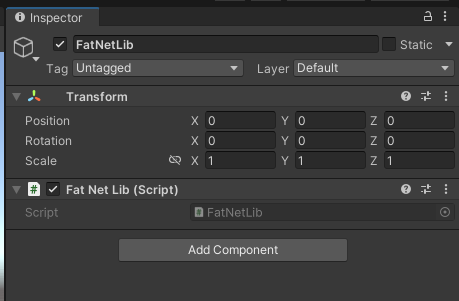
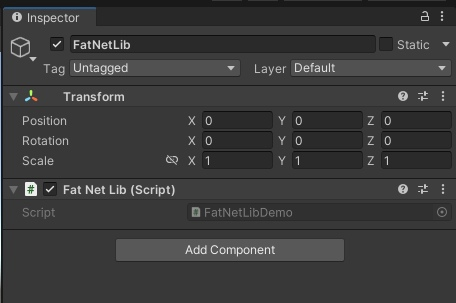
#121 Fix comments

diff --git a/README.md b/README.md
@@ -1,4 +1,4 @@
-# FatNetLib
+# FatNetLib - Beta
 
 [![Nuget](https://img.shields.io/badge/nuget-0.1.0-blue)](https://www.nuget.org/packages/FatNetLib/)
 [![GitHub Releases](https://img.shields.io/badge/github_releases-0.1.0-blue)](https://github.com/VasiliyKolihalov/FatNetLib/releases/)
@@ -9,24 +9,20 @@ areas.
 FatNetLib has familiar features and concepts from large enterprise frameworks (ASP.NET core, Spring etc.).
 FatNetLib uses the [LiteNetLib](https://github.com/RevenantX/LiteNetLib#litenetlib) for transport.
 
-## Features and documentation
-
-FatNetLib contains [Essential documentation](docs/2-essentials) with a guide for all features.
-
-List of the main features available out of the box:
-
-* Endpoints
-* Different types of delivery reliability (from [LiteNetLib](https://github.com/RevenantX/LiteNetLib))
-* Middlewares
-* Json serialization
-* Encryption
-* Compression
-* Asynchronous API
-* Deep customization
-
 **Attention, this is a beta version.
 The basic functionality is implemented, but there may be problems with thread-safety.
 If you encounter any problems, please let us know.**
+
+## Features
+
+* Endpoints
+* Delivery reliabilities
+* Middlewares
+* Serialization
+* Encryption
+* Compression
+* Asynchronous API
+* Modules
 
 ## Get started
 
@@ -44,6 +40,10 @@ There are the following packages in this repository:
 Nuget packages are available in [Nuget Repository](https://www.nuget.org/packages/FatNetLib/).
 Unity packages are available
 in [GitHub Releases](https://github.com/VasiliyKolihalov/FatNetLib/releases/).
+
+## Documentation
+
+FatNetLib contains [Essential documentation](docs/2-essentials) with a guide for all features.
 
 ## Compatibility
 

diff --git a/docs/1-geting-started/3-unity-quick-start.md b/docs/1-geting-started/3-unity-quick-start.md
@@ -74,6 +74,7 @@ the same version as the server:
 ![](images/unity-package.png)
 
 After, create a new MonoBehaviour script in unity.
+
 ```c#
 using System;
 using System.Threading;
@@ -88,7 +89,7 @@ using Kolyhalov.FatNetLib.Json;
 using UnityEngine;
 using static Kolyhalov.FatNetLib.Core.Constants.RouteConstants.Routes.Events;
 
-public class FatNetLib : MonoBehaviour
+public class FatNetLibDemo : MonoBehaviour
 {
     private void Start()
     {
@@ -140,6 +141,8 @@ public class FatNetLib : MonoBehaviour
 ```
 
 Here, we initialize FatNetLib as a client application with json serialization.
+Then, we we register an endpoint on the `pong` route.
+This endpoint sends the package to the server at the `ping` route.
 After that, we build and run the application and get a courier for sending packages.
 Learn more about [Courier](../2-essentials/5-courier.md).
 Next, we wait for some time until the client connects to the server.
@@ -148,8 +151,7 @@ Finally, we send the package to the server at `ping` route to start the "ping-po
 Next, create an empty object in a scene in Unity and add this script as a component:
 ![](images/inspector.png)
 
-Now start the server first and then the Unity client:
-
+Now start the server first and then the Unity client.
 Unity client console:
 
 ![](images/unity-console.png)
